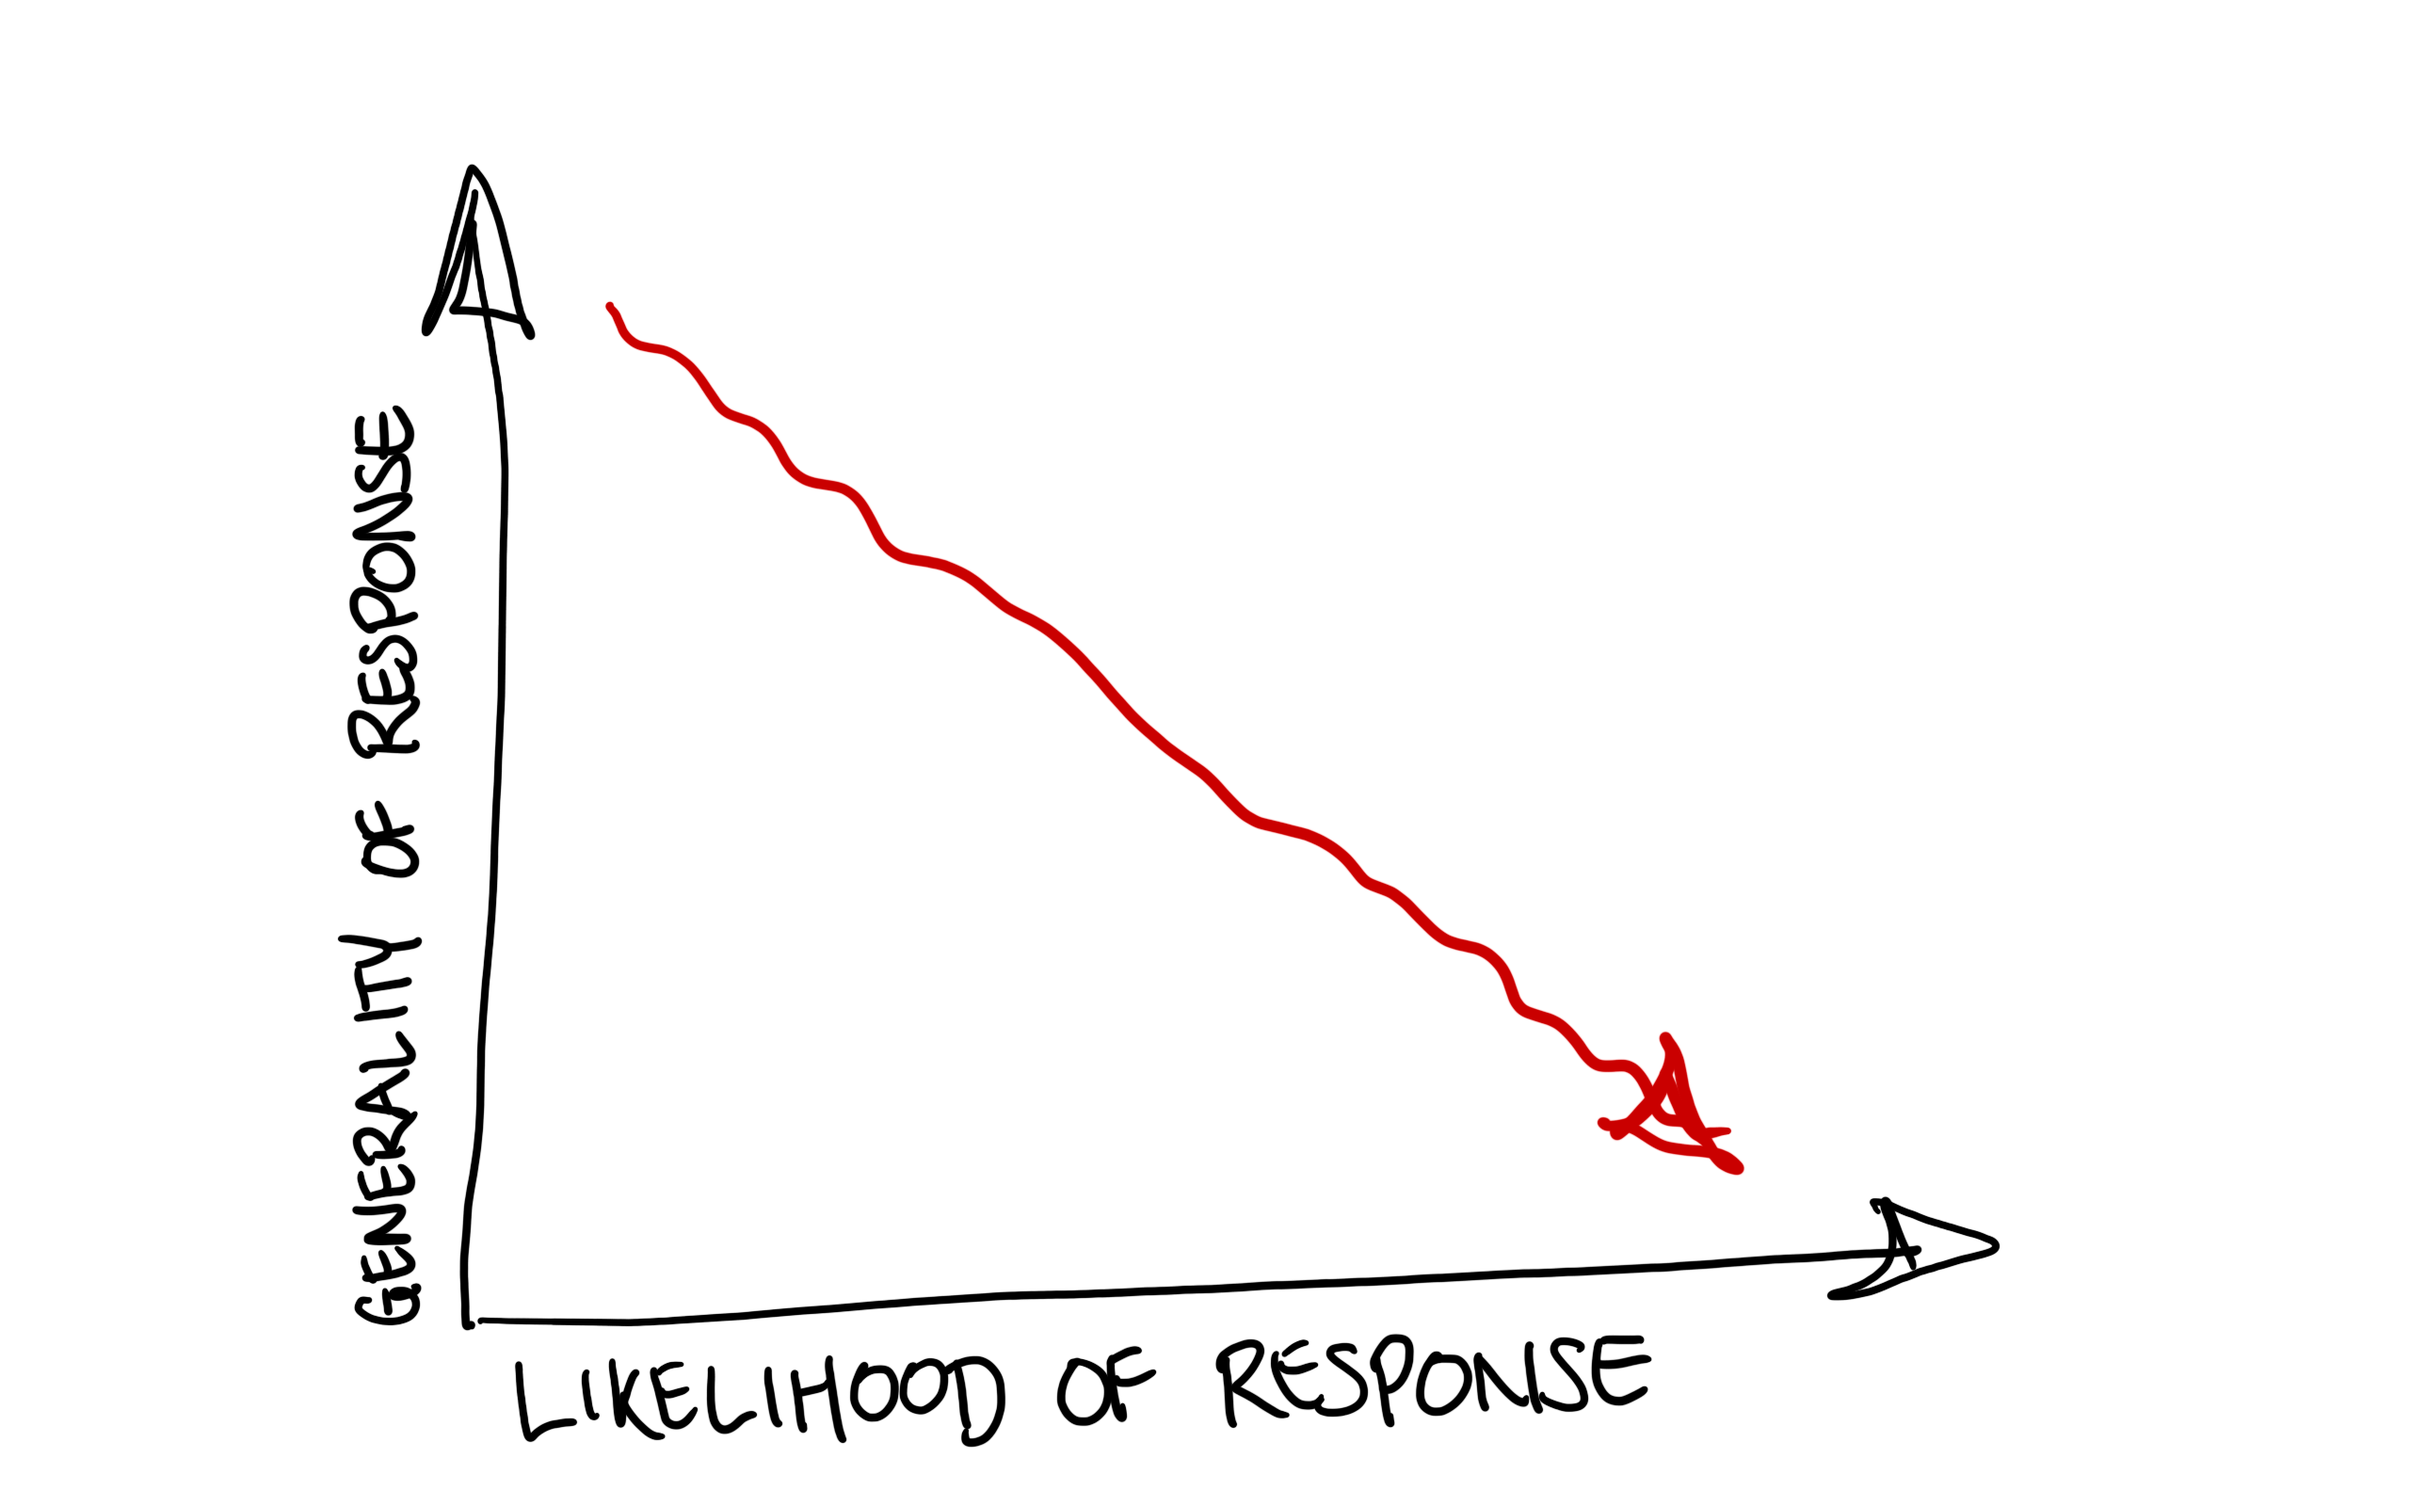
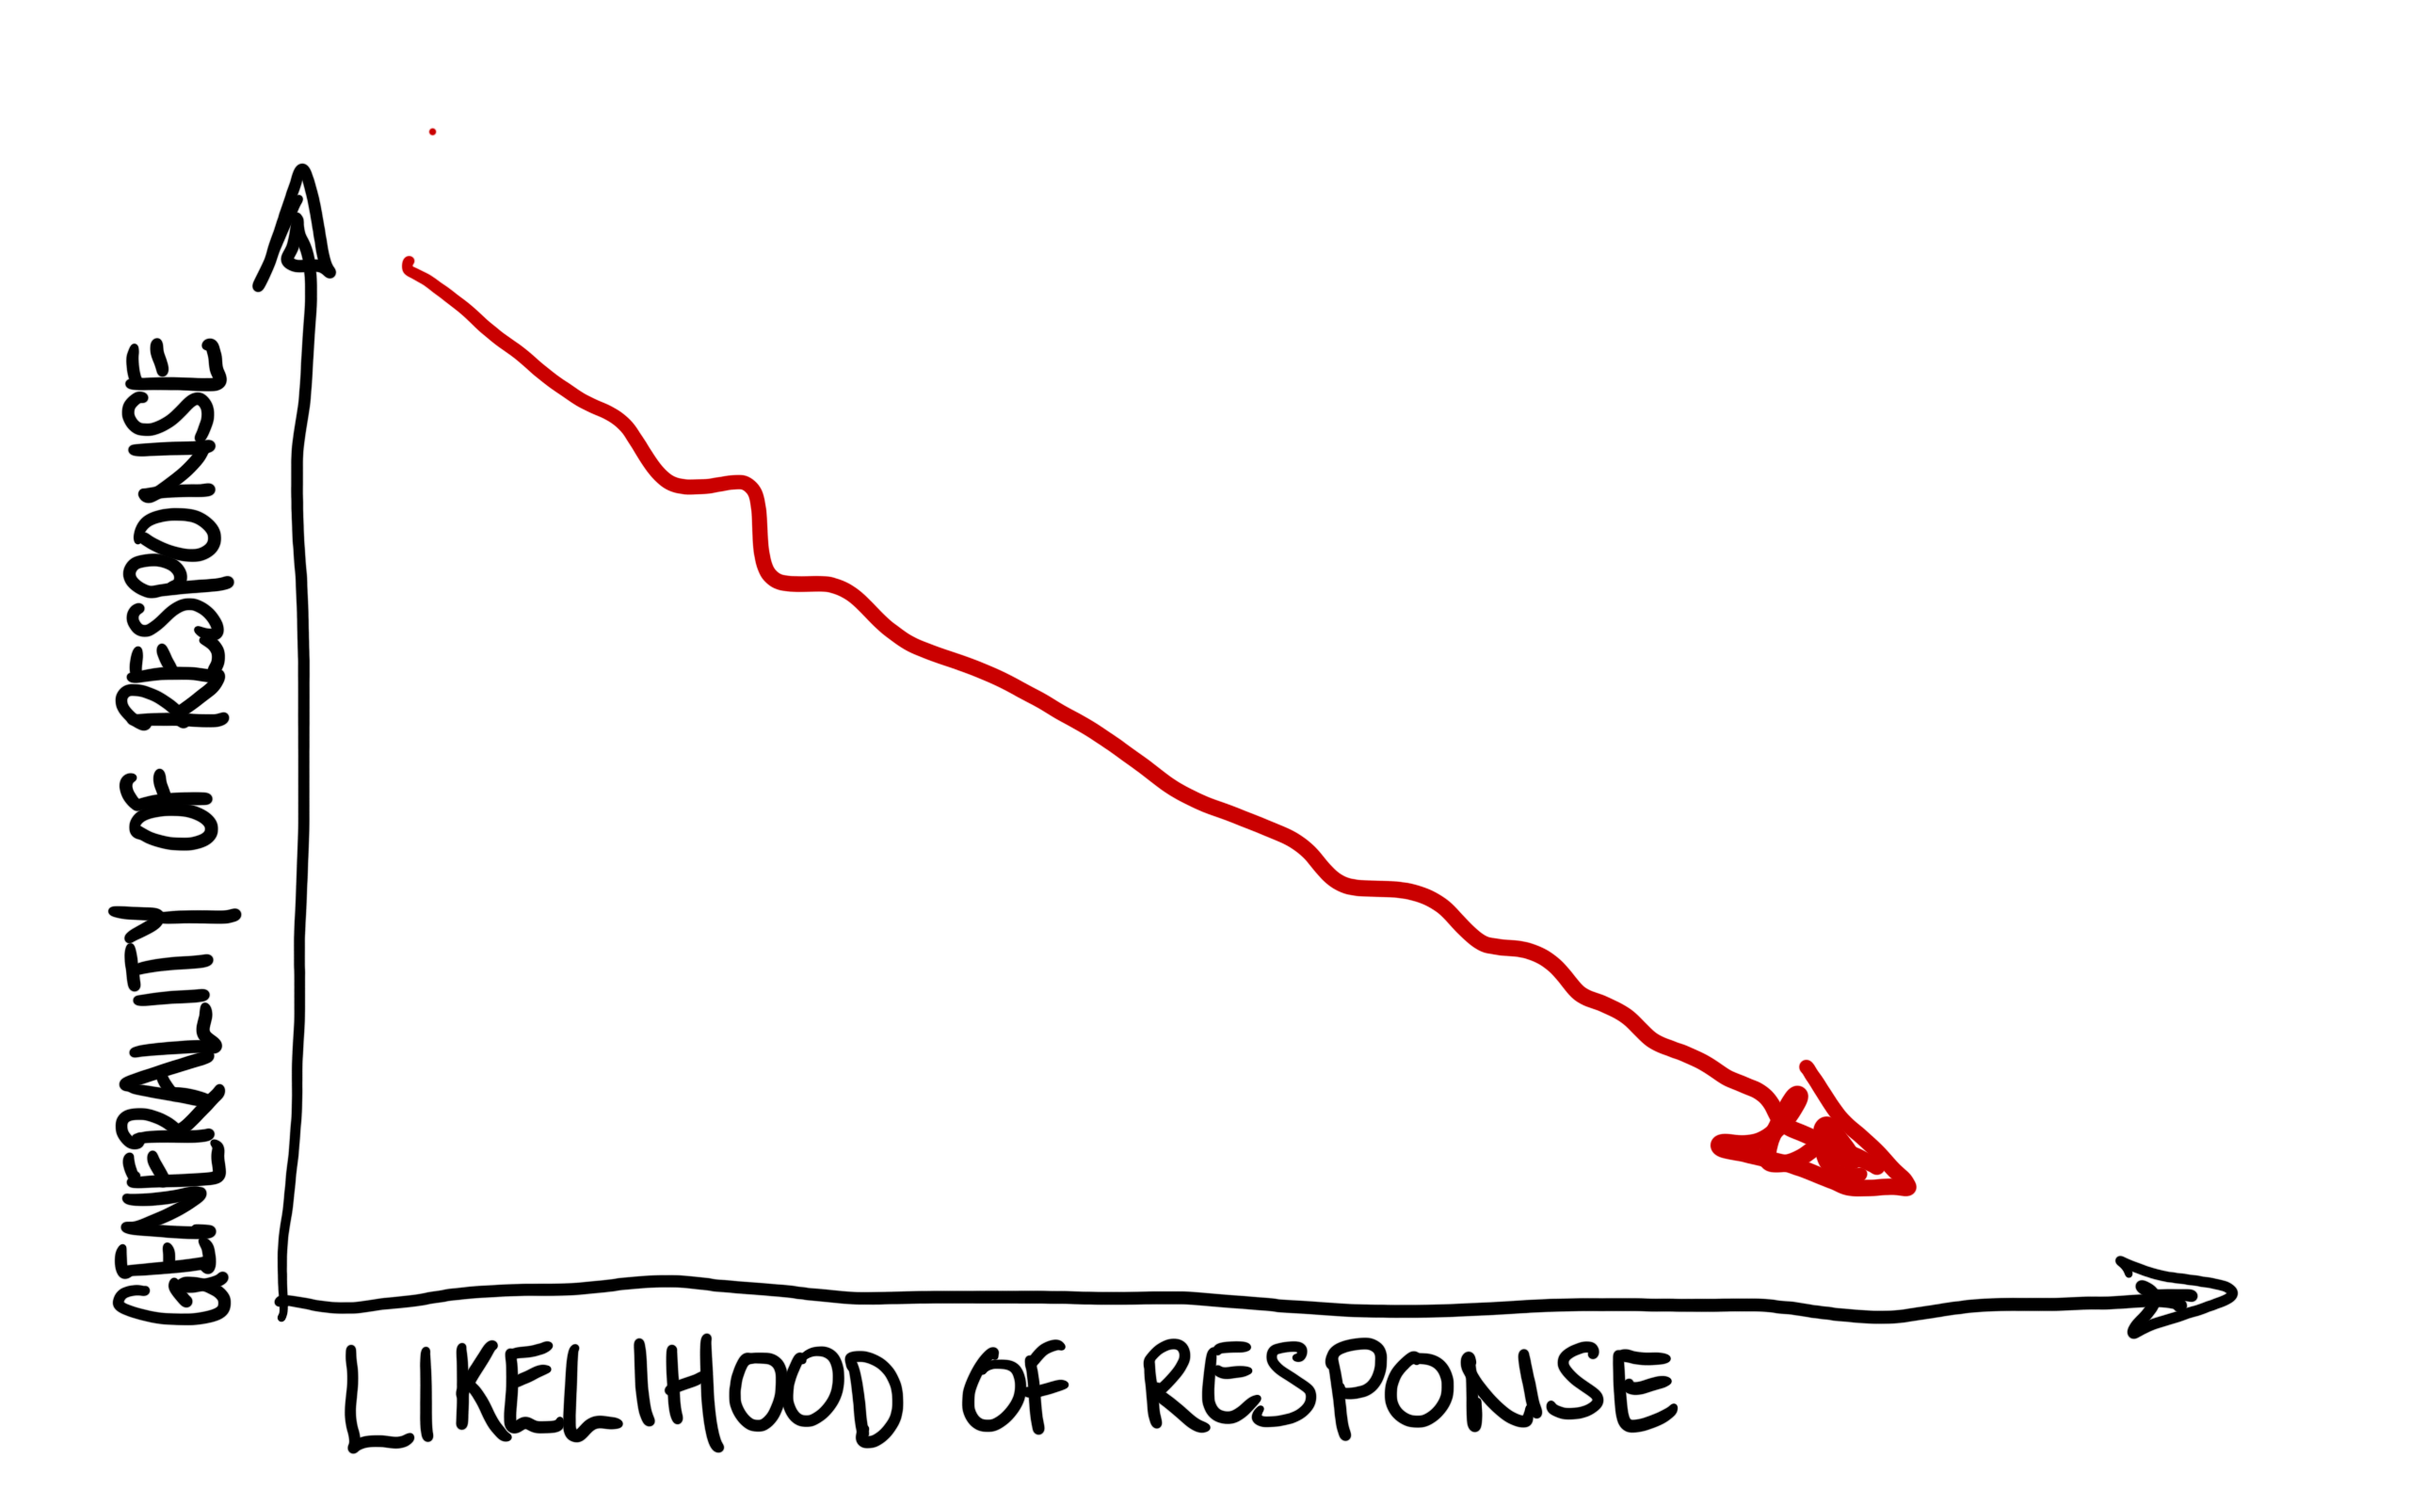
redo drawn images

Changed region(s): [[0.0312, 0.0938, 0.9375, 0.9688]]

diff --git a/2024/rseconf/index.html b/2024/rseconf/index.html
@@ -816,76 +816,68 @@
                 <section data-background="img/cubes.svg", data-background-size="contain" data-background-position="5%" data-background-transition="none" data-transition="none">
                     <h2 class="r-fit-text">Challenges in eliciting community feedback</h2>
                     <div class="r-stack" style="margin-top: -3rem;">
-                        <img src="img/response1.png" alt="illustrative graph" style="width: 100%; background: transparent;">
+                        <img src="img/response1.png" alt="hand diagram of response" style="width: 100%; background: transparent;">
                     </div>
                 </section>
 
                 <section data-background="img/cubes.svg", data-background-size="contain" data-background-position="5%" data-transition="none" data-background-transition="none">
                     <h2 class="r-fit-text">Challenges in eliciting community feedback</h2>
                     <div class="r-stack" style="margin-top: -3rem;">
-                        <img src="img/response2.png" alt="illustrative graph" style="width: 150%; background: transparent;">
+                        <img src="img/response2.png" alt="hand diagram of response with annotations" style="width: 150%; background: transparent;">
                     </div>
                 </section>
 
                 <section data-background="img/cubes.svg", data-background-size="contain" data-background-position="5%" data-transition="none">
                     <h2 class="r-fit-text">Challenges in eliciting community feedback</h2>
                     <div class="r-stack" style="margin-top: -3rem;">
-                        <img src="img/response3.png" alt="illustrative graph" style="width: 100%; background: transparent;">
+                        <img src="img/response3.png" alt="hand diagram of response with more annotations" style="width: 100%; background: transparent;">
+                    </div>
+                </section>
+
+                <section data-background="img/cubes.svg", data-background-size="contain" data-background-position="5%" data-background-transition="none" data-transition="none">
+                    <h2 class="r-fit-text">Challenges in eliciting community feedback</h2>
+                    <div class="r-stack" style="margin-top: -3rem;">
+                        <img src="img/response1.png" alt="hand diagram of response" style="width: 100%; background: transparent;">
                     </div>
                 </section>
 
                 <section data-background="img/cubes.svg", data-background-size="contain" data-background-position="5%" data-transition="none">
                     <h2 class="r-fit-text">Challenges in eliciting community feedback</h2>
                     <div class="r-stack" style="margin-top: -3rem;">
-                        <img src="img/response4.png" alt="illustrative graph" style="width: 100%; background: transparent;">
+                        <img src="img/response4.png" alt="hand diagram of response with more annotations" style="width: 100%; background: transparent;">
                     </div>
                 </section>
 
-                <section data-background="img/cubes.svg", data-background-size="contain" data-background-position="5%" data-transition="none">
+                <section data-auto-animate data-auto-animate-easing="cubic-bezier(0.770, 0.000, 0.175, 1.000)" data-background="img/cubes.svg", data-background-size="contain" data-background-position="5%" data-transition="none" data-background-transition="none">
                     <h2 class="r-fit-text">Challenges in eliciting community feedback</h2>
                     <div class="r-stack" style="margin-top: -3rem;">
-                        <img src="img/response5.png" alt="illustrative graph" style="width: 100%; background: transparent;">
+                        <img src="img/response5.png" alt="hand diagram of response with more annotations" style="width: 100%; background: transparent;">
                     </div>
                 </section>
 
-                <section data-background="img/cubes.svg", data-background-size="contain" data-background-position="5%" data-transition="none">
+                <section data-auto-animate data-auto-animate-easing="cubic-bezier(0.770, 0.000, 0.175, 1.000)" data-background="img/cubes.svg", data-background-size="contain" data-background-position="5%">
                     <h2 class="r-fit-text">Challenges in eliciting community feedback</h2>
-                    <div class="r-stack" style="margin-top: -3rem;">
-                        <img src="img/response1.png" alt="illustrative graph" style="width: 100%; background: transparent;">
-                    </div>
                 </section>
 
-                <section data-background="img/cubes.svg", data-background-size="contain" data-background-position="5%" data-transition="none">
-                    <h2 class="r-fit-text">Challenges in eliciting community feedback</h2>
-                    <div class="r-stack" style="margin-top: -3rem;">
-                        <img src="img/response6.png" alt="illustrative graph" style="width: 100%; background: transparent;">
-                    </div>
+                <section data-auto-animate data-auto-animate-easing="cubic-bezier(0.770, 0.000, 0.175, 1.000)" data-background="img/cubes.svg", data-background-size="contain" data-background-position="5%">
+                    <h2 class="r-fit-text">Strategies for eliciting community feedback</h2>
                 </section>
 
-                <section data-background="img/cubes.svg", data-background-size="contain" data-background-position="5%" data-transition="none">
-                    <h2 class="r-fit-text">Challenges in eliciting community feedback</h2>
-                    <div class="r-stack" style="margin-top: -3rem;">
-                        <img src="img/response7.png" alt="illustrative graph" style="width: 100%; background: transparent;">
-                    </div>
+                <section data-auto-animate data-auto-animate-easing="cubic-bezier(0.770, 0.000, 0.175, 1.000)" data-background="img/cubes.svg", data-background-size="contain" data-background-position="5%">
+                    <h2 class="r-fit-text">Strategies for eliciting community feedback</h2>
+                    <ul>
+                        <li>Utilise, nuture, expand personal networks</li>
+                        <li>Target small, focussed groups over individuals</li>
+                        <li>Organise workshops, events-within-events</li>
+                    </ul>
                 </section>
 
-                <section data-background="img/cubes.svg", data-background-size="contain" data-background-position="5%" data-transition="none">
-                    <h2 class="r-fit-text">Challenges in eliciting community feedback</h2>
-                    <div class="r-stack" style="margin-top: -3rem;">
-                        <img src="img/response8.png" alt="illustrative graph" style="width: 100%; background: transparent;">
-                    </div>
-                </section>
-
-                <section data-background="img/cubes.svg", data-background-size="contain" data-background-position="5%" data-transition="none">
-                    <h2 class="r-fit-text">Challenges in eliciting community feedback</h2>
-                    <div class="r-stack" style="margin-top: -3rem;">
-                        <img src="img/response9.png" alt="illustrative graph" style="width: 100%; background: transparent;">
-                    </div>
-                </section>
-
-                <section data-background="img/cubes.svg", data-background-size="contain" data-background-position="5%" data-transition="none">
-                    <div class="r-stack" style="margin-top: -3rem;">
-                        <img src="img/strategies.png" alt="illustrative graph" style="width: 100%; background: transparent;">
+                <section data-auto-animate data-auto-animate-easing="cubic-bezier(0.770, 0.000, 0.175, 1.000)" data-background="img/cubes.svg", data-background-size="contain" data-background-position="5%">
+                    <div class="r-fit-text">
+                    <h3>Active maintenance</h3>
+                    <h3>requires actively</h3>
+                    <h3>seeking</h3>
+                    <h3>community support</h3>
                     </div>
                 </section>
 
